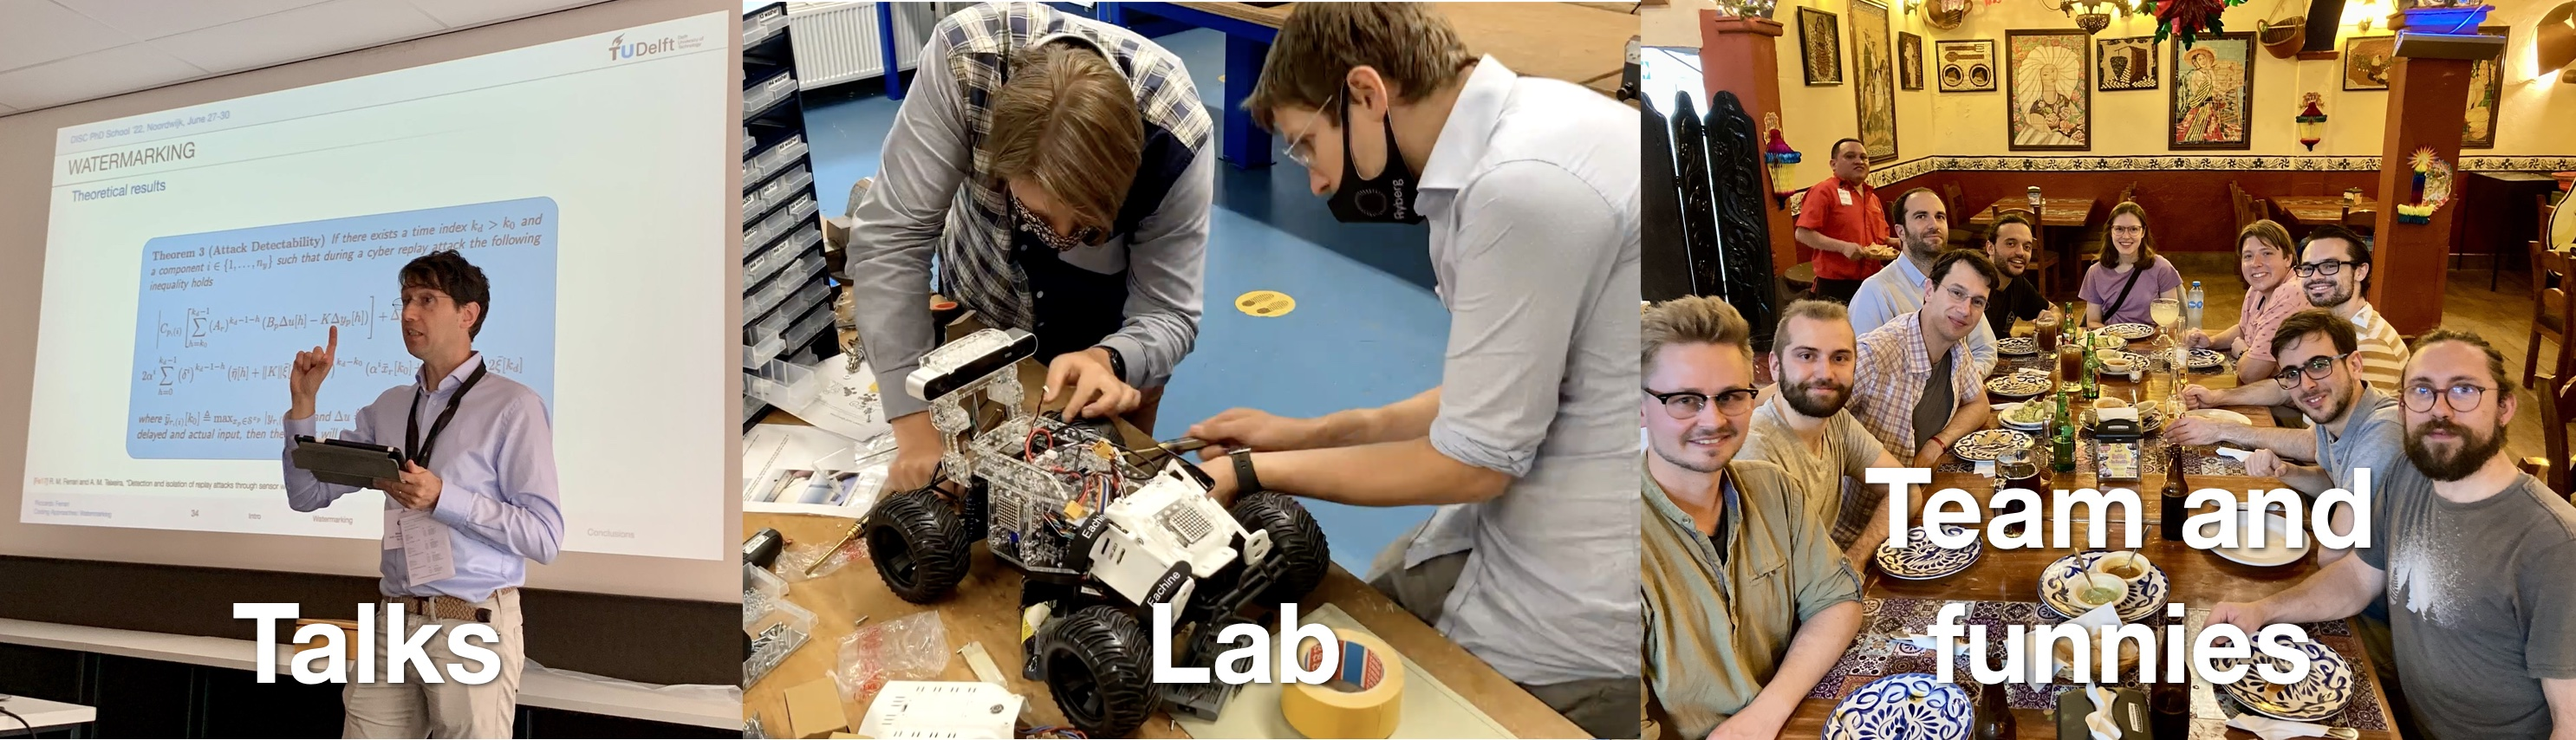
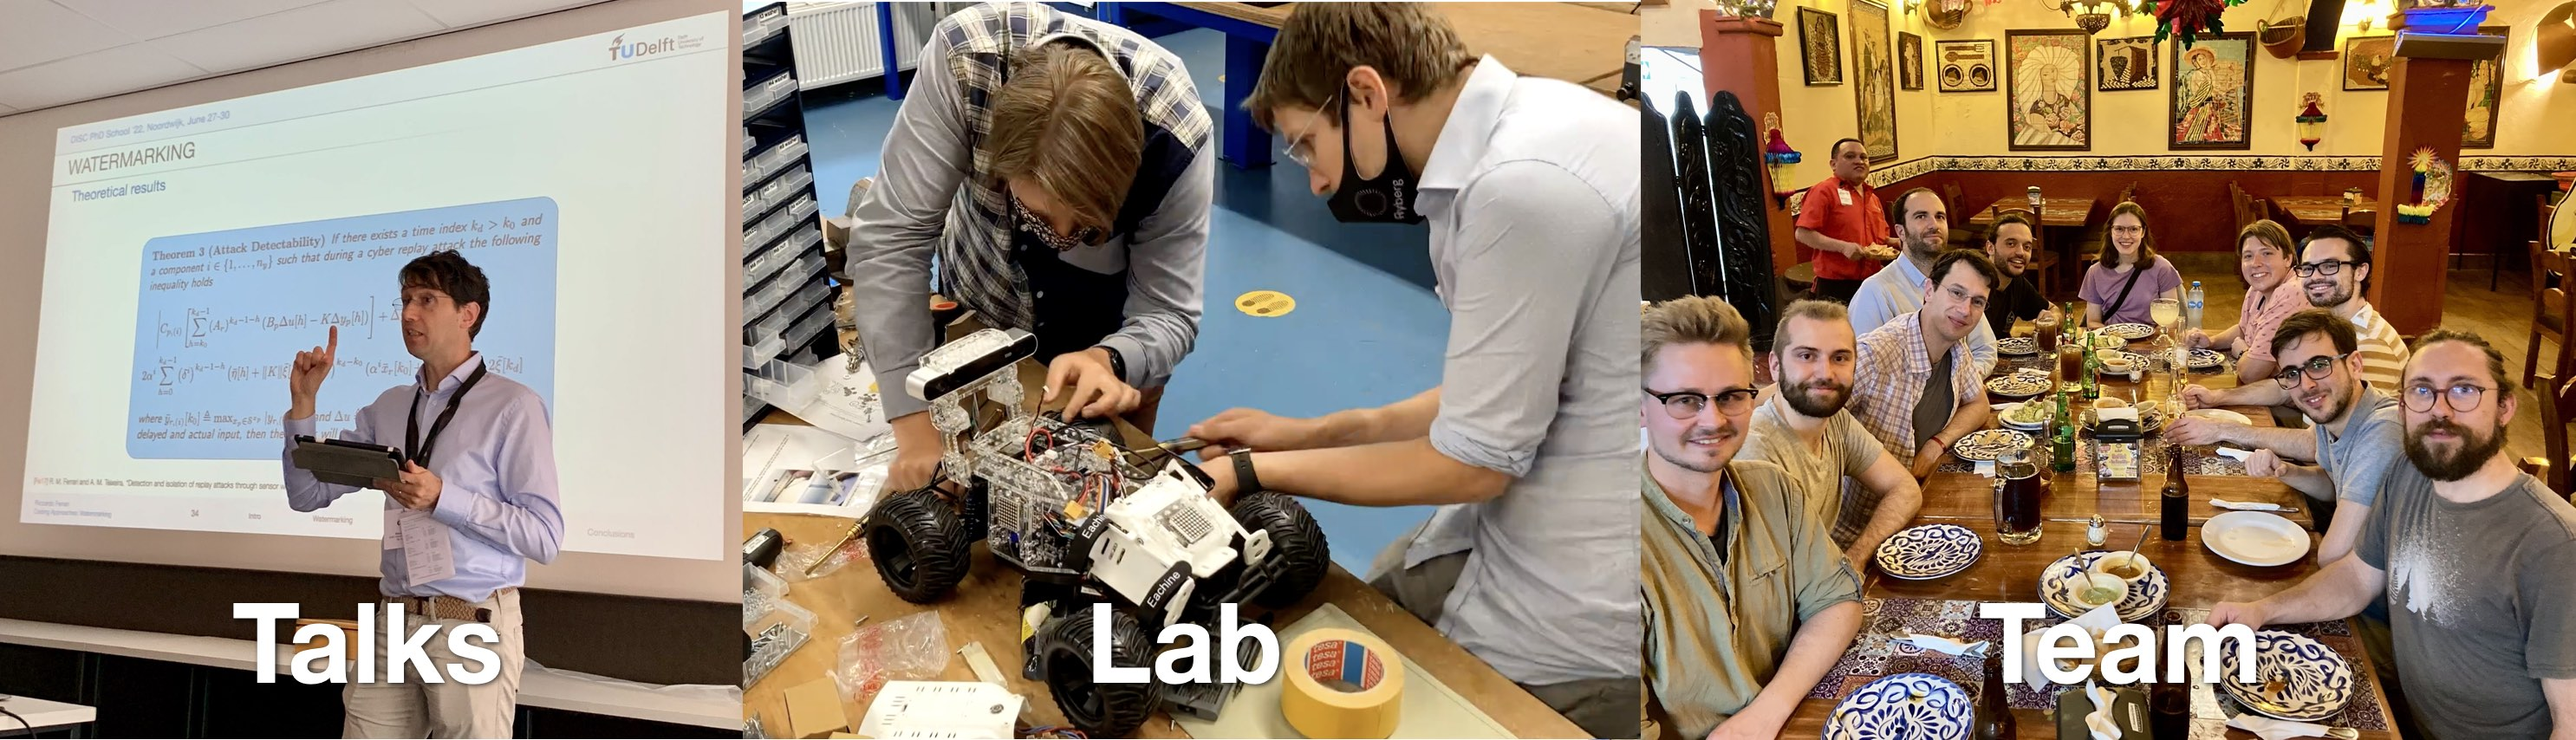
updated talks

Changed region(s): [[0.712, 0.6089, 0.9287, 0.7611], [0.7429, 0.7916, 0.8977, 0.9438], [0.4024, 0.822, 0.5262, 0.9438]]

diff --git a/_projects/media/talks/1_conferences.md b/_projects/media/talks/1_conferences.md
@@ -1,0 +1,104 @@
+---
+layout: page
+title: conferences
+description: talks given by me or my team at conferences
+img: assets/img/albums/Hugo_Schuck_Award/3.jpeg
+importance: 1
+category: talks
+---
+
+The list below is partial and mostly limited to last years. A slightly more complete list of talks is available in this [playlist](https://youtube.com/playlist?list=PLw-O00K-tto9YIvTfi3p-EGmb8zDPWgIN&si=FG9PsQ7nz8JNQzQv) on my Youtube channel.
+
+## IFAC 2023
+
+#batteries #estimation
+
+<iframe width="560" height="315" src="https://www.youtube.com/embed/ym1QiS7EabI?si=FW_pxzglYJvo-wmS" title="YouTube video player" frameborder="0" allow="accelerometer; autoplay; clipboard-write; encrypted-media; gyroscope; picture-in-picture; web-share" allowfullscreen></iframe>
+
+"**Real-time Battery State of Charge and parameters estimation through Multi-Rate Moving Horizon Estimator**," by **Tushar Desai**, Federico Oliva, Riccardo M.G. Ferrari and Daniele Carnevale. Presented at *IFAC World Congress 2023, Yokohama, Japan, July 9th-14th*.
+
+#autonomous_vehicles #coalitional_control
+
+<iframe width="560" height="315" src="https://www.youtube.com/embed/yCnOVDFHtUI?si=J_ZUjbxbl9bhXfqe" title="YouTube video player" frameborder="0" allow="accelerometer; autoplay; clipboard-write; encrypted-media; gyroscope; picture-in-picture; web-share" allowfullscreen></iframe>
+
+"**A Coalitional MPC Approach to Control of Collaborative Vehicle Platoons**,"  
+by **Paula Chanfreut**, Twan Keijzer, José Maria Maestre and Riccardo M.G. Ferrari. Presented at *IFAC World Congress 2023, Yokohama, Japan, July 9th-14th*.
+
+## CDC 2022
+
+#cyber_physical_systems #security
+
+<iframe width="560" height="315" src="https://www.youtube.com/embed/VDt-PKHupRg?si=p6DcEpoA-3TrrZ7d" title="YouTube video player" frameborder="0" allow="accelerometer; autoplay; clipboard-write; encrypted-media; gyroscope; picture-in-picture; web-share" allowfullscreen></iframe>
+
+"**Hierarchical Cyber-Attack Detection in Large-Scale Interconnected Systems**," by Twan Keijzer and **Alexander J. Gallo** and Riccardo M.G. Ferrari. Presented at *CDC 2022 conference in Cancun, Mexico*.
+
+
+## IROS 2022
+
+#robotics #active_inference
+
+<iframe width="560" height="315" src="https://www.youtube.com/embed/TNuD2T5HQGs?si=t_Z4355_6sydGgZw" title="YouTube video player" frameborder="0" allow="accelerometer; autoplay; clipboard-write; encrypted-media; gyroscope; picture-in-picture; web-share" allowfullscreen></iframe>
+
+"**Unbiased Active Inference for Classical Control**," by Mohamed Baioumy, **Corrado Pezzato**, Riccardo Ferrari, Nick Hawes. Presented at *IROS 2022 conference in Kyoto, Japan*.
+
+## SAFEPROCESS 2022
+
+#robotics #active_inference #fault_tolerant_control
+
+<iframe width="560" height="315" src="https://www.youtube.com/embed/mQczI6ZKgyc?si=WUCQtfRSG1nHOeCQ" title="YouTube video player" frameborder="0" allow="accelerometer; autoplay; clipboard-write; encrypted-media; gyroscope; picture-in-picture; web-share" allowfullscreen></iframe>
+
+"**Beta Residuals: Improving Fault-Tolerant Control For Sensory Faults Via Bayesian Inference And Precision Learning**", Mohamed Baioumy, William Hartemink, **Riccardo M.G. Ferrari**, Nick Hawes. Presented at *Safeprocess 2022, Cyprus, June 8-10 2022*.
+
+## ECC 2021
+
+#autonomous_cars #control #cyber_attacks
+
+<iframe width="560" height="315" src="https://www.youtube.com/embed/xpjTtLWQzY4?si=4IL5_y3ef6sLHWLO" title="YouTube video player" frameborder="0" allow="accelerometer; autoplay; clipboard-write; encrypted-media; gyroscope; picture-in-picture; web-share" allowfullscreen></iframe>
+
+"**Detection of Network and Sensor Cyber-Attacks in Platoons of Cooperative Autonomous Vehicles: A Sliding-Mode Observer Approach**," **Twan Keijzer** and Riccardo M.G. Ferrari. Presented at *2021 European Control Conference (ECC), Rotterdam (The Netherlands - virtual) Jun. 29th - Jul. 2nd*.
+
+#autonomous_cars #control #cyber_attacks
+
+<iframe width="560" height="315" src="https://www.youtube.com/embed/zkjt6ASEEGs?si=ejSCQHxgd2QtuFUP" title="YouTube video player" frameborder="0" allow="accelerometer; autoplay; clipboard-write; encrypted-media; gyroscope; picture-in-picture; web-share" allowfullscreen></iframe>
+
+"**Detection of Cyber-Attacks in a Collaborative Intersection Control Scenario" (invited paper)**," **Twan Keijzer**, Fabian Jarmolowitz and Riccardo M.G. Ferrari. Presented at *2021 European Control Conference (ECC), Rotterdam (The Netherlands - virtual) Jun. 29th - Jul. 2nd*.
+
+#wind_energy #load_reduction
+
+<iframe width="560" height="315" src="https://www.youtube.com/embed/o2WONMhRozQ?si=f_l-85g3NhtLHI0e" title="YouTube video player" frameborder="0" allow="accelerometer; autoplay; clipboard-write; encrypted-media; gyroscope; picture-in-picture; web-share" allowfullscreen></iframe>
+
+"**Blade Effective Wind Speed Estimation: A Subspace Predictive Repetitive Estimator Approach**," Yichao Liu, **Atindriyo Kusumo Pamososuryo**, Riccardo M.G. Ferrari, Tobias Gybel Hovgaard and Jan-Willem van Wingerden. Presented at *2021 European Control Conference (ECC), Rotterdam (The Netherlands - virtual) Jun. 29th - Jul. 2nd*.
+
+
+#robotics #active_inference
+
+<iframe width="560" height="315" src="https://www.youtube.com/embed/2YnBWbFUEik?si=XMpydQfN6s7IGzX1" title="YouTube video player" frameborder="0" allow="accelerometer; autoplay; clipboard-write; encrypted-media; gyroscope; picture-in-picture; web-share" allowfullscreen></iframe>
+
+"**Fault-tolerant Control of Robotic Systems with Sensory Faults using Unbiased Active Inference**". **Mohamed Baioumy**, Corrado Pezzato, Riccardo M.G. Ferrari, Carlos Hernández Corbato and Nick Hawes. Presented at *2021 European Control Conference (ECC), Rotterdam (The Netherlands - virtual) Jun. 29th - Jul. 2nd*.
+
+## IFAC 2020
+
+#autonomous_cars #coalitional_control
+
+<iframe width="560" height="315" src="https://www.youtube.com/embed/w2w3YizL3d4?si=bFcmEpfCHQYJXa0U" title="YouTube video player" frameborder="0" allow="accelerometer; autoplay; clipboard-write; encrypted-media; gyroscope; picture-in-picture; web-share" allowfullscreen></iframe>
+
+"**A Topology-Switching Coalitional Control and Observation Scheme with Stability Guarantees**," Paula Chanfreut, **Twan Keijzer**, Riccardo M.G. Ferrari and Jose Maria Maestre. Presented at *2020 IFAC World Congress , Berlin (Germany - virtual) Jul. 11th - 17th*.
+
+#flight_control #fault_detection
+
+<iframe width="560" height="315" src="https://www.youtube.com/embed/UAsiW-EnXIE?si=sFW0Yc2fVatILU3L" title="YouTube video player" frameborder="0" allow="accelerometer; autoplay; clipboard-write; encrypted-media; gyroscope; picture-in-picture; web-share" allowfullscreen></iframe>
+
+"**A Sliding Mode Observer Approach to the Aerospace Industrial Benchmark on Fault Detection**," **Twan Keijzer** and Riccardo M.G. Ferrari. :trophy: **Winner of the Airbus Aerospace Fault Detection Contest** :trophy:. Presented at *2020 IFAC World Congress , Berlin (Germany - virtual) Jul. 11th - 17th*.
+
+<!-- <div class="embed-responsive embed-responsive-16by9">
+  <iframe class="embed-responsive-item" src="https://www.youtube.com/embed/videoseries?list=PLw-O00K-tto9YIvTfi3p-EGmb8zDPWgIN" title="Talks from Riccardo.M.G. and co-authors" frameborder="0" allow="accelerometer; autoplay; clipboard-write; encrypted-media; gyroscope; picture-in-picture" allowfullscreen></iframe>
+</div> -->
+
+<!-- <iframe width="560" height="315" src="https://www.youtube.com/embed/videoseries?list=PLw-O00K-tto9YIvTfi3p-EGmb8zDPWgIN" title="Talks from Riccardo.M.G. and co-authors" frameborder="0" allow="accelerometer; autoplay; clipboard-write; encrypted-media; gyroscope; picture-in-picture" allowfullscreen></iframe> -->
+
+
+
+% > WORK IN PROGRESS - CHECK BACK SOON!
+
+
+

diff --git a/_projects/media/talks/2_invited_talks.md b/_projects/media/talks/2_invited_talks.md
@@ -1,0 +1,28 @@
+---
+layout: page
+title: invited talks
+description: talks given by me at seminars
+img: assets/img/invited_talks.jpg
+importance: 2
+category: talks
+---
+
+The list below is partial and mostly limited to last years. A slightly more complete list of talks is available in this [playlist](https://youtube.com/playlist?list=PLw-O00K-tto9YIvTfi3p-EGmb8zDPWgIN&si=FG9PsQ7nz8JNQzQv) on my Youtube channel.
+
+## 2021
+
+#fault_diagnosis #cyber_attacks #safety #resiliency
+
+<iframe width="560" height="315" src="https://www.youtube.com/embed/Wy6_Y2bvR5Q?si=wCR-puMFBJukjAe2" title="YouTube video player" frameborder="0" allow="accelerometer; autoplay; clipboard-write; encrypted-media; gyroscope; picture-in-picture; web-share" allowfullscreen></iframe>
+
+"**Safety and Resiliency of Dynamical Systems: The Dual Role of Uncertainty**," **Riccardo M.G. Ferrari**. Invited talk at the *AI for E&S Think Tank at TU Delft (Delft, The Netherlands)*.
+
+
+#fault_diagnosis #cyber_attacks #safety #resiliency
+
+<iframe width="560" height="315" src="https://www.youtube.com/embed/DQSQeqNI0_w?si=_TGYkyYHYFSwHJ6H" title="YouTube video player" frameborder="0" allow="accelerometer; autoplay; clipboard-write; encrypted-media; gyroscope; picture-in-picture; web-share" allowfullscreen></iframe>
+
+"**Safety and Resiliency of Dynamical Systems: The Dual Role of Uncertainty**," **Riccardo M.G. Ferrari**. Invited talk at the *Decision and Control Systems group at KTH (Stocholm, Sweden)*.
+
+
+

diff --git a/_pages/media.md b/_pages/media.md
@@ -5,7 +5,7 @@ sorted_title: 05_media
 permalink: /media/
 description: Pictures and videos from the lab, conferences and from outreach events.
 nav: true
-display_categories: [talks, lab, team and funnies]
+display_categories: [talks, lab, team]
 horizontal: false
 ---
 
@@ -19,7 +19,7 @@ horizontal: false
 
 <p>
 <div>
-On this page you can access recordings of our <a href="#talks">talks</a>, pictures and videos from our <a href="#lab">lab</a> and finally some pictures about our <a href="#team and funnies">team and funny things</a> we did.
+On this page you can access recordings of our <a href="#talks">talks</a>, pictures and videos from our <a href="#lab">lab</a> and finally some pictures about our <a href="#team">team and funny things</a> we did.
 </div>
 
 <div class="projects">

diff --git a/_projects/media/team and funnies/2_Atin_Hugo_Schuck_Award.md b/_projects/media/team and funnies/2_Atin_Hugo_Schuck_Award.md
@@ -4,7 +4,7 @@ title: Hugo Schuck Award
 description: Our PhD student Atindriyo Pamososuryo received the prestigious prize from the AACC
 img: /assets/img/albums/Hugo_Schuck_Award/4.jpeg
 importance: 1
-category: team and funnies
+category: team
 ---
 
 Our PhD student Atindriyo Pamososuryo, cosupervised with J.W. van Wingerden, received the prestigious O. Hugo Schuck prize from the American Automatic Control Council! The prize is assigned to the best theoretical and, respectively, application paper from previous American Control Conference.

diff --git a/_projects/media/team and funnies/1_Twan_graduation.md b/_projects/media/team and funnies/1_Twan_graduation.md
@@ -4,7 +4,7 @@ title: Twan's graduation
 description: My first PhD student graduated at TUD
 img: /assets/img/albums/Twan_graduation/7.jpg
 importance: 1
-category: team and funnies
+category: team
 ---
 
 PhDs graduation ceremonies at TU Delft are elaborate and suggestive. Both the candidate and the supervisor (as well as all the other members from the graduation committee) have to dress *properly*.
